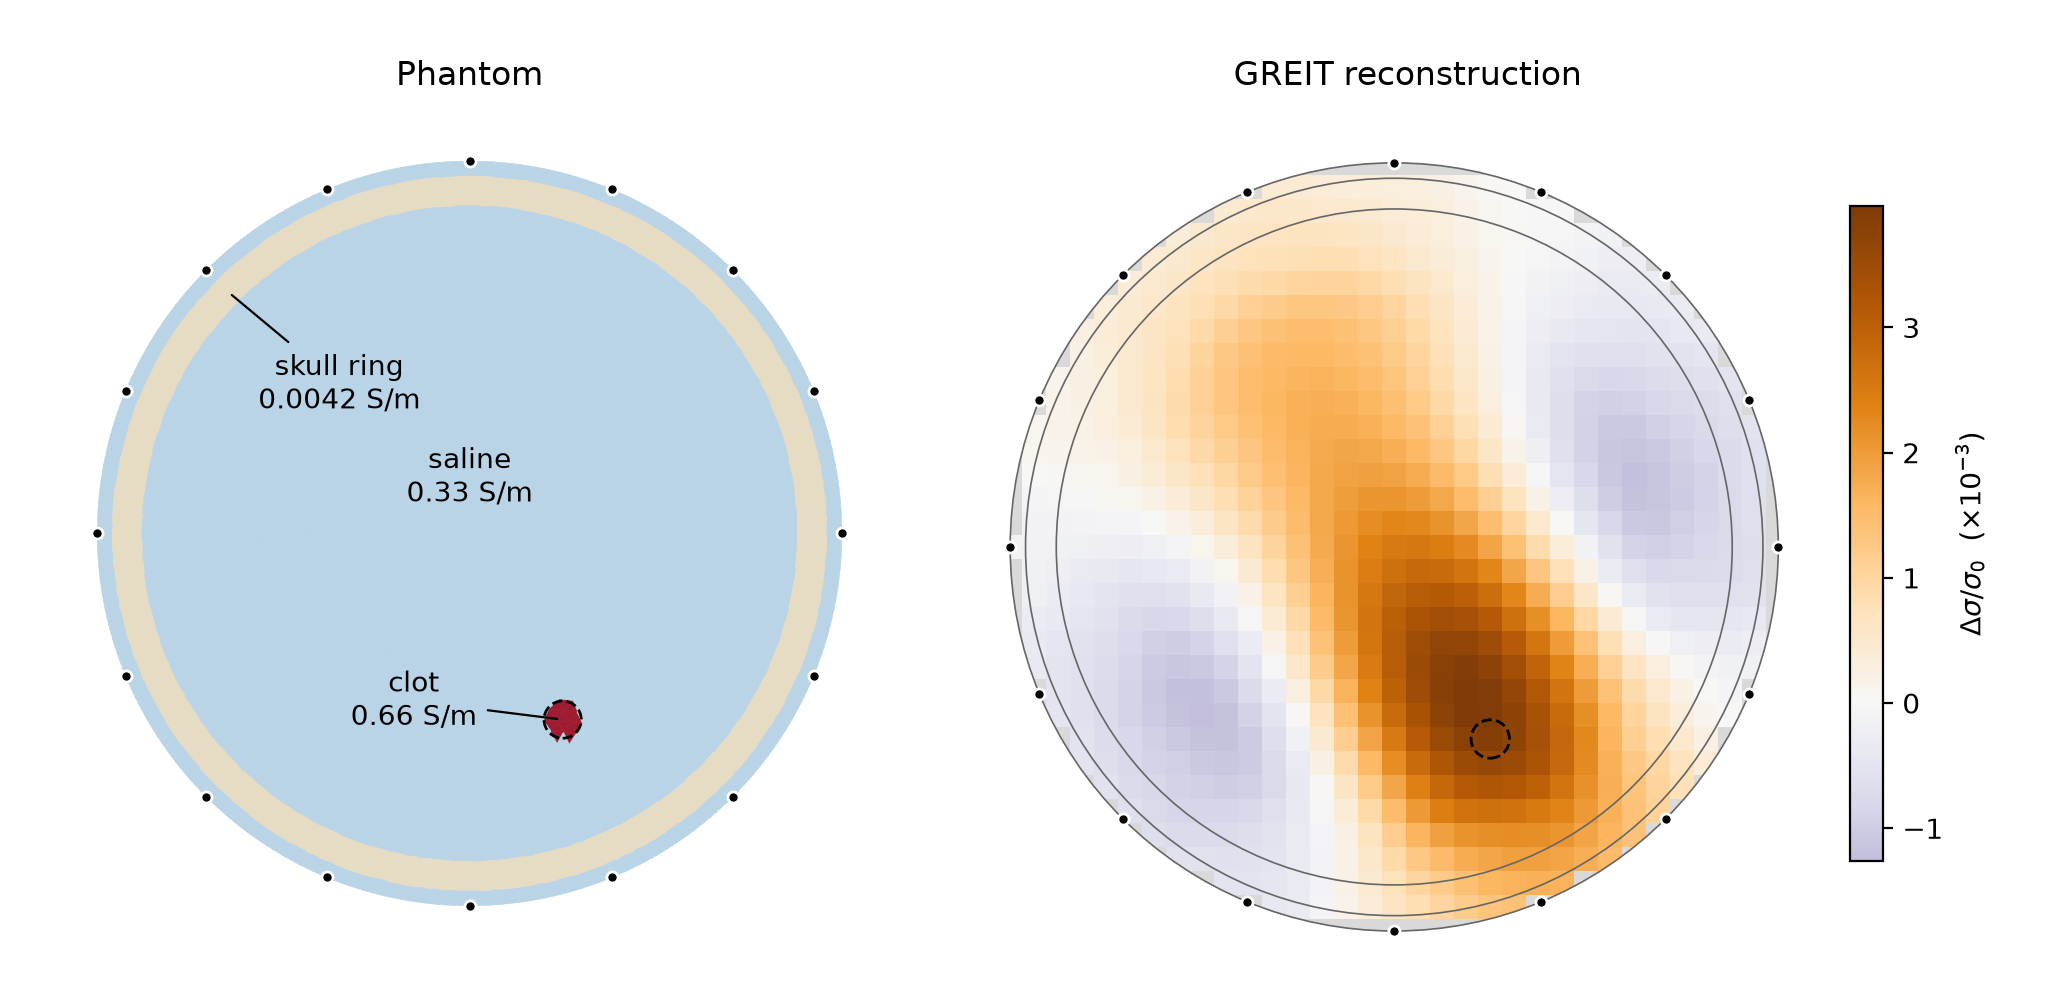
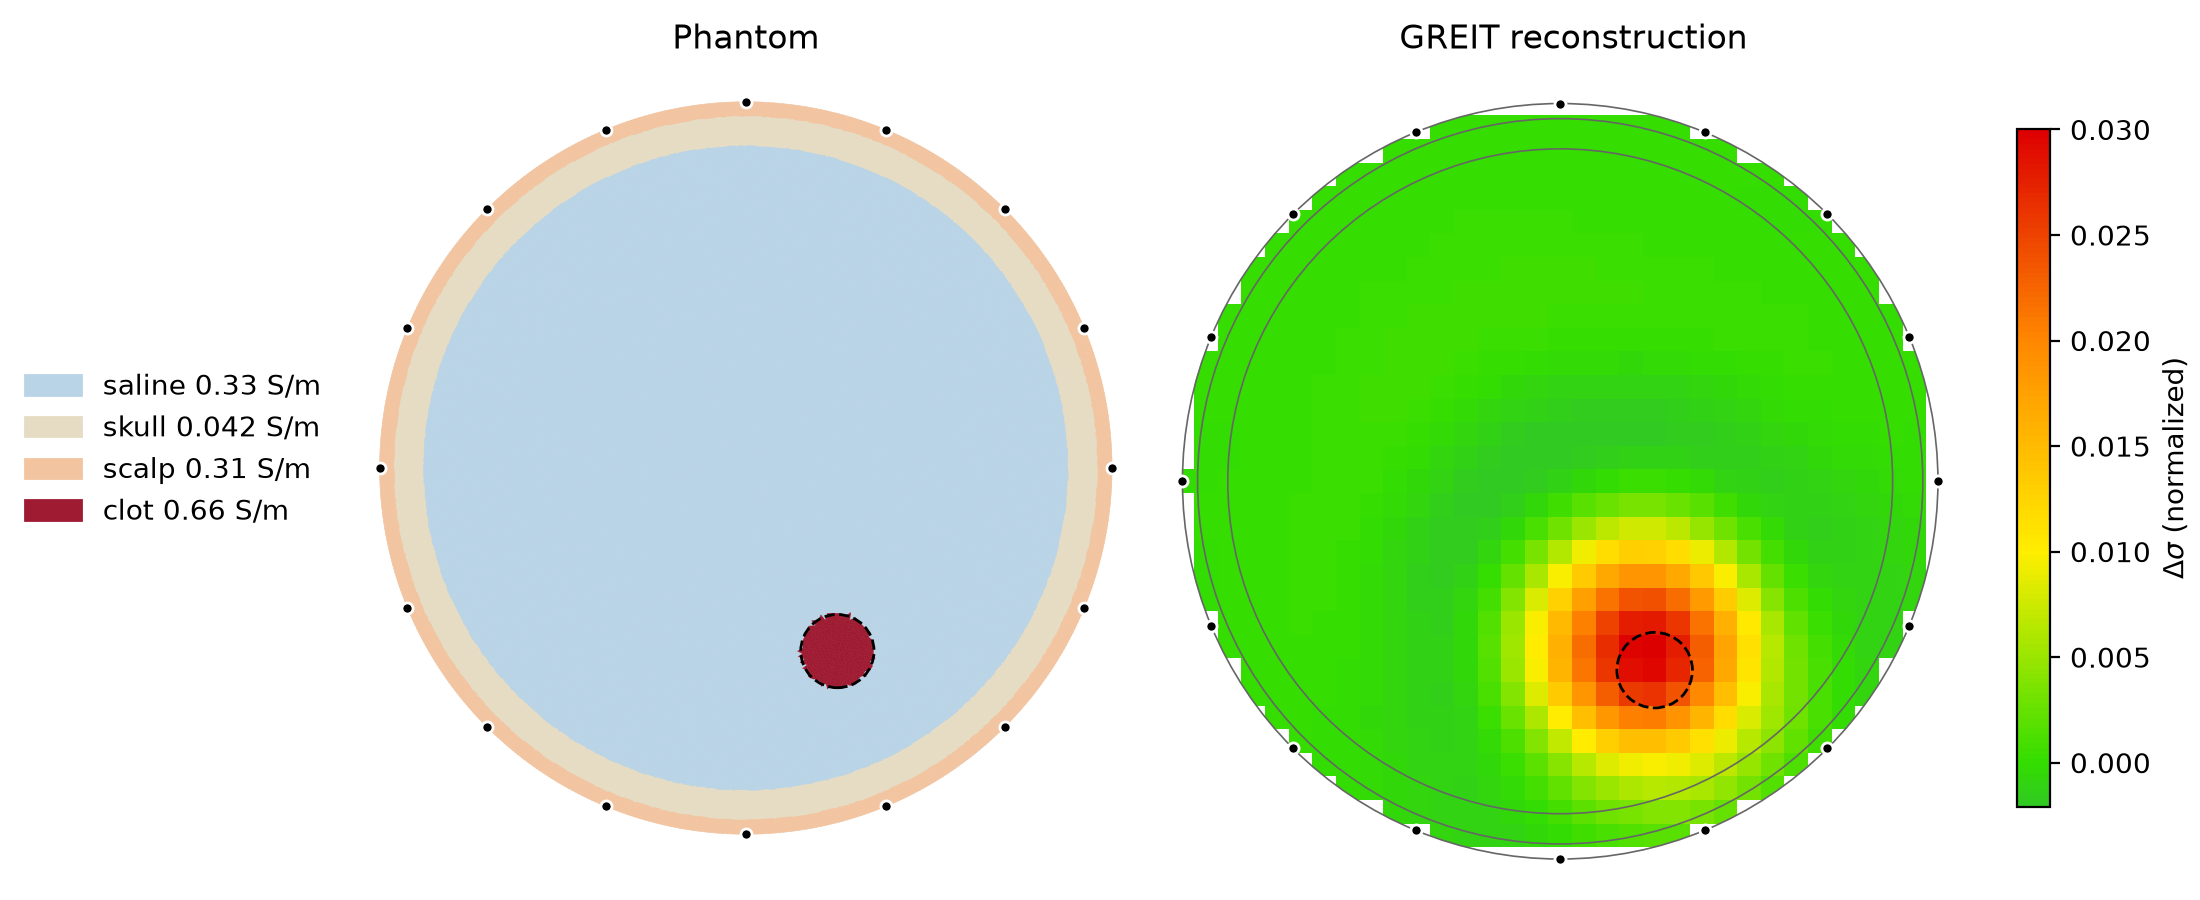
Add scalp layer, separate reconstruction mesh, clean up GREIT plot
- Raise skull conductivity 0.0042 -> 0.042 S/m, add scalp 0.31 S/m outside ring
- Build meshes in head_mesh(): drop nodes in no triangle, assign scalp by centroid
- Forward mesh h0 0.02 -> 0.01, separate reconstruction mesh h0 0.04
- Clot radius 0.05 -> 0.1, GREIT lamb 0.001 -> 0.01
- Drop private _compute_h override, use pyEIT jac_normalized
- Phantom: one colour per region by conductivity, legend left instead of annotations
- Reconstruction: custom colour map, zero at green, colour bar cropped to data
- Move imports to top, drop redundant np.real, name inclusion clot
- Annotate units, mesh, protocol, GREIT parameters and plot elements
- Regenerate img/sim-greit-ring.png

diff --git a/sim/rig.py b/sim/rig.py
@@ -1,96 +1,116 @@
+from pathlib import Path
+
 import matplotlib.pyplot as plt
 import numpy as np
+from matplotlib.colors import LinearSegmentedColormap, ListedColormap
+from matplotlib.patches import Circle, Patch
 
 import pyeit.mesh as mesh
 from pyeit.eit.fem import EITForward
 import pyeit.eit.protocol as protocol
 import pyeit.eit.greit as greit
-from pyeit.mesh.wrapper import PyEITAnomaly_Circle
+from pyeit.mesh.wrapper import PyEITAnomaly_Circle, PyEITMesh
 
-# S/m, one saline inside and outside the ring
+# conductivity, S/m
 SIGMA_SALINE = 0.33
-SIGMA_SKULL = 0.0042
-
-
-# normalized to tank inner radius
+SIGMA_SKULL = 0.042
+SIGMA_SCALP = 0.31
+# radius, normalized: 1 = tank inner wall = electrode ring
 R_SKULL_OUT = 0.96
 R_SKULL_IN = 0.88
 
 N_EL = 16
-H0 = 0.02
+# distmesh initial edge length; forward (simulate) and reconstruction meshes differ
+H0 = 0.01
+H0_REC = 0.04
 
-mesh_obj = mesh.multi_circle(
-    r=1.0,
-    background=SIGMA_SALINE,
-    n_el=N_EL,
-    h0=H0,
-    r_layer=[[R_SKULL_IN, R_SKULL_OUT]],
-    perm_per_layer=[SIGMA_SKULL],
-    ppl=int(np.ceil(2 * np.pi * R_SKULL_OUT / H0)),
-)
 
-anomaly = [
-    PyEITAnomaly_Circle(center=[0.25, -0.5], r=0.05, perm=0.66),
-]
+def head_mesh(h0):
+    # saline disc, skull ring R_SKULL_IN..R_SKULL_OUT, scalp outside ring
+    m = mesh.multi_circle(
+        r=1.0,
+        background=SIGMA_SALINE,
+        n_el=N_EL,
+        h0=h0,
+        r_layer=[[R_SKULL_IN, R_SKULL_OUT]],
+        perm_per_layer=[SIGMA_SKULL],
+        ppl=int(np.ceil(2 * np.pi * R_SKULL_OUT / h0)),  # points per layer boundary, spacing ~h0
+    )
+    # distmesh can leave a node in no triangle -> singular FEM matrix; drop unused nodes, renumber
+    used = np.unique(m.element)
+    assert np.isin(m.el_pos, used).all(), "electrode node in no triangle"
+    new_id = np.zeros(len(m.node), dtype=int)
+    new_id[used] = np.arange(len(used))
+    m = PyEITMesh(node=m.node[used], element=new_id[m.element], perm=m.perm, el_pos=new_id[m.el_pos])
+    # scalp: elements with centroid outside ring
+    r_c = np.linalg.norm(m.node[m.element, :2].mean(axis=1), axis=1)
+    m.perm[r_c > R_SKULL_OUT] = SIGMA_SCALP
+    return m
 
-mesh_new = mesh.set_perm(mesh_obj, anomaly=anomaly)
 
+mesh_obj = head_mesh(H0)
+mesh_rec = head_mesh(H0_REC)
+
+# inclusion, conductivity 2x saline
+clot = PyEITAnomaly_Circle(center=[0.25, -0.5], r=0.1, perm=0.66)
+mesh_new = mesh.set_perm(mesh_obj, anomaly=[clot])
+
+# adjacent drive, adjacent measure, no rotation, drive electrodes skipped: 16 x 13 = 208 values
 protocol_obj = protocol.create(N_EL, dist_exc=1, step_meas=1, parser_meas="std")
 
+# boundary voltages: v0 reference (no clot), v1 with clot
 fwd = EITForward(mesh_obj, protocol_obj)
 v0 = fwd.solve_eit()
 v1 = fwd.solve_eit(perm=mesh_new.perm)
 
-eit = greit.GREIT(mesh_obj, protocol_obj)
-eit.setup(p=0.50, lamb=0.001, perm=mesh_obj.perm, jac_normalized=True)
-# reconstruct dsigma/sigma0: with absolute dsigma the resistive skull columns dominate J
-# ponytail: private pyEIT methods, pinned to pyeit 1.2.4
-eit.H = eit._compute_h(eit.J * mesh_obj.perm, eit._compute_grid_weights(eit.xg, eit.yg))
-ds = eit.solve(v1, v0, normalize=True)
-x, y, ds = eit.mask_value(ds, mask_value=np.nan)
+eit = greit.GREIT(mesh_rec, protocol_obj)
+# p: noise covariance exponent, lamb: regularization; Jacobian on prior perm, normalized by v0
+eit.setup(p=0.50, lamb=0.01, perm=mesh_rec.perm, jac_normalized=True)
+ds = eit.solve(v1, v0, normalize=True)  # dv = (v1 - v0) / |v0|
+x, y, ds = eit.mask_value(ds, mask_value=np.nan)  # 32 x 32 grid, pixels outside mesh -> NaN
 
 if __name__ == "__main__":
-    from pathlib import Path
-    from matplotlib.colors import CenteredNorm, ListedColormap
-    from matplotlib.patches import Circle
-
     pts, tri = mesh_obj.node, mesh_obj.element
-    el = pts[mesh_obj.el_pos, :2]
-    a = anomaly[0]
+    el = pts[mesh_obj.el_pos]  # electrode coordinates
 
-    fig, (ax0, ax1) = plt.subplots(1, 2, figsize=(10, 4.5), layout="constrained")
+    # one fixed colour per region, matched by exact conductivity; no match -> index 0 (saline)
+    regions = {
+        "saline": (SIGMA_SALINE, "#b9d4e6"),
+        "skull": (SIGMA_SKULL, "#e6dcc3"),
+        "scalp": (SIGMA_SCALP, "#f2c4a0"),
+        "clot": (clot.perm, "#9e1b32"),
+    }
+    sigma, colour = zip(*regions.values())
+    region = np.argmax(mesh_new.perm[:, None] == np.array(sigma), axis=1)
 
-    # one fixed colour per region: bone, saline, blood
-    perm = np.real(mesh_new.perm)
-    region = np.select([perm == SIGMA_SKULL, perm == a.perm], [0, 2], 1)
-    ax0.tripcolor(pts[:, 0], pts[:, 1], tri, region, vmin=0, vmax=2, edgecolors="face", linewidth=0.2,
-                  cmap=ListedColormap(["#e6dcc3", "#b9d4e6", "#9e1b32"]))
-    arrow = dict(arrowstyle="-", color="k", lw=0.8)
-    ax0.text(0, 0.15, f"saline\n{SIGMA_SALINE:g} S/m", ha="center", va="center")
-    ax0.annotate(f"skull ring\n{SIGMA_SKULL:g} S/m", xy=(-0.65, 0.65), xytext=(-0.35, 0.4),
-                 ha="center", va="center", arrowprops=arrow)
-    ax0.annotate(f"clot\n{a.perm:g} S/m", xy=a.center, xytext=(a.center[0] - 0.4, a.center[1] + 0.05),
-                 ha="center", va="center", arrowprops=arrow)
-    ax0.set_title("Phantom", pad=14)
+    fig, (ax0, ax1) = plt.subplots(1, 2, figsize=(11, 4.5), layout="constrained")
 
-    e = int(np.floor(np.log10(np.nanmax(np.abs(ds)))))
-    im = ax1.pcolormesh(x, y, np.real(ds) / 10**e, shading="nearest", cmap="PuOr_r", norm=CenteredNorm())
-    im.set_clip_path(Circle((0, 0), 1, transform=ax1.transData))
-    ax1.add_patch(Circle((0, 0), 1, fc="0.85", ec="none", zorder=0))  # grey: rim pixels GREIT masks
-    # colorbar as an inset so both panels keep the same size
-    cb = fig.colorbar(im, cax=ax1.inset_axes([1.04, 0.1, 0.04, 0.8]),
-                      label=rf"$\Delta\sigma / \sigma_0$  ($\times 10^{{{e}}}$)")
-    cb.ax.set_ylim(np.nanmin(ds) / 10**e, np.nanmax(ds) / 10**e)  # bar spans only values present
+    # edges in face colour: no mesh lines, no gaps
+    ax0.tripcolor(pts[:, 0], pts[:, 1], tri, region, vmin=0, vmax=len(sigma) - 1,
+                  cmap=ListedColormap(colour), edgecolors="face", linewidth=0.2)
+    fig.legend(handles=[Patch(color=c, label=f"{n} {s:g} S/m") for n, (s, c) in regions.items()],
+               loc="outside left center", frameon=False)
+    ax0.set_title("Phantom")
+
+    cmap = LinearSegmentedColormap.from_list("eit", [
+        (0, "#6a00a8"), (0.25, "#1f4fff"), (0.5, "#33dd00"),  # 0.5 is 0
+        (2 / 3, "#ffee00"), (5 / 6, "#ff8800"), (1, "#dd0000")])
+    vmax = np.nanmax(np.abs(ds))
+    im = ax1.pcolormesh(x, y, ds, shading="nearest", cmap=cmap, vmin=-vmax, vmax=vmax)
+    im.set_clip_path(Circle((0, 0), 1, transform=ax1.transData))  # clip to tank wall
+    cb = fig.colorbar(im, ax=ax1, shrink=0.8, label=r"$\Delta\sigma$ (normalized)")
+    cb.ax.set_ylim(np.nanmin(ds), np.nanmax(ds))  # bar spans only values present
+    # skull ring and tank wall outlines
     for r in (R_SKULL_IN, R_SKULL_OUT, 1):
         ax1.add_patch(Circle((0, 0), r, fill=False, ec="0.4", lw=0.6))
-    ax1.set_title("GREIT reconstruction", pad=14)
+    ax1.set_title("GREIT reconstruction")
 
+    # true clot outline, electrodes
     for ax in (ax0, ax1):
-        ax.add_patch(Circle(a.center, a.r, fill=False, ec="k", ls="--", lw=1))
+        ax.add_patch(Circle(clot.center, clot.r, fill=False, ec="k", ls="--", lw=1))
         ax.plot(el[:, 0], el[:, 1], "o", ms=4, mfc="k", mec="w")
         ax.set_aspect("equal")
         ax.set_axis_off()
 
-    fig.savefig(Path(__file__).resolve().parent.parent / "img" / "sim-greit-ring.png", dpi=200,
-                bbox_inches="tight", pad_inches=0.3)
+    fig.savefig(Path(__file__).resolve().parents[1] / "img" / "sim-greit-ring.png", dpi=200)
     plt.show()
